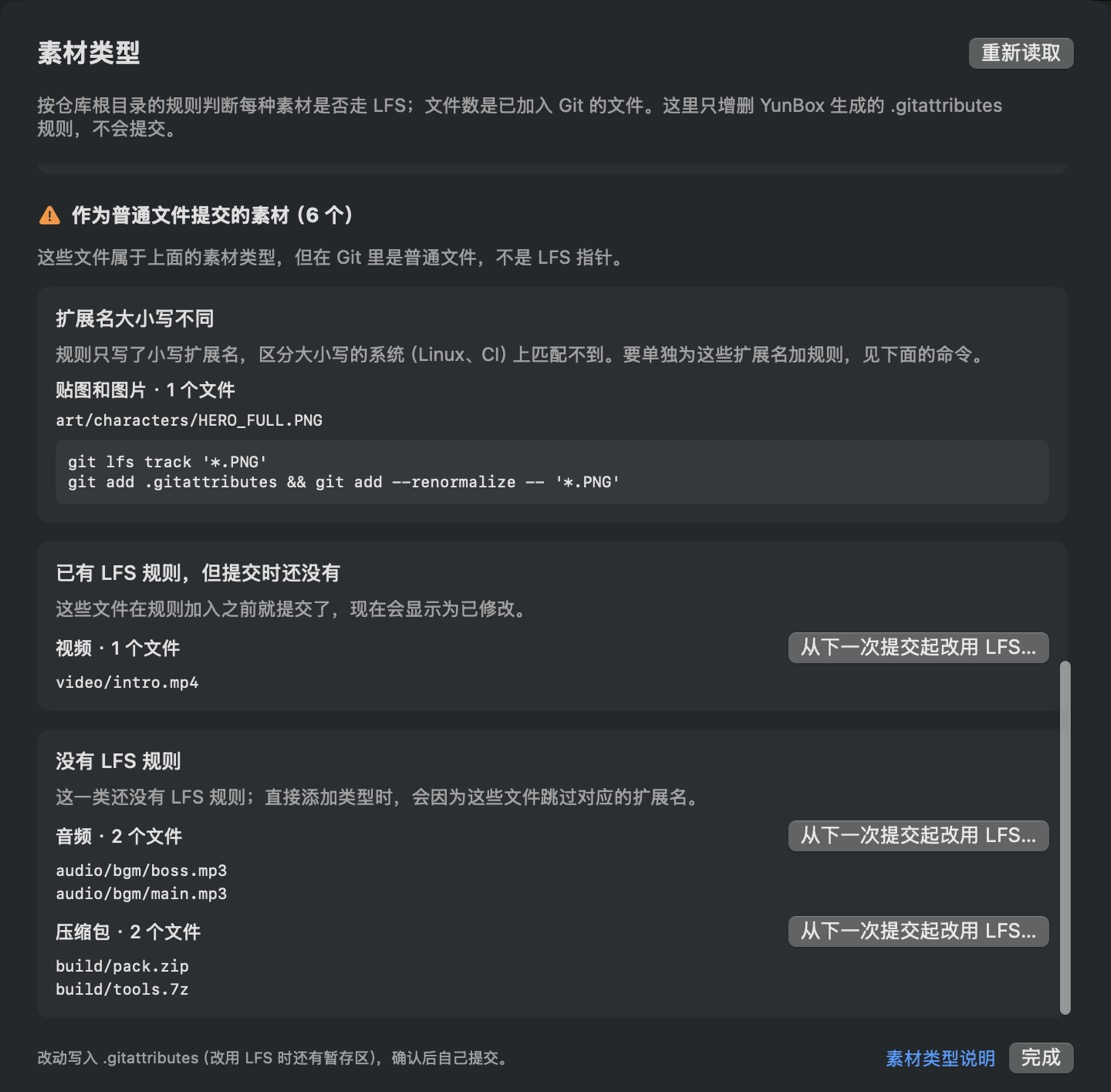
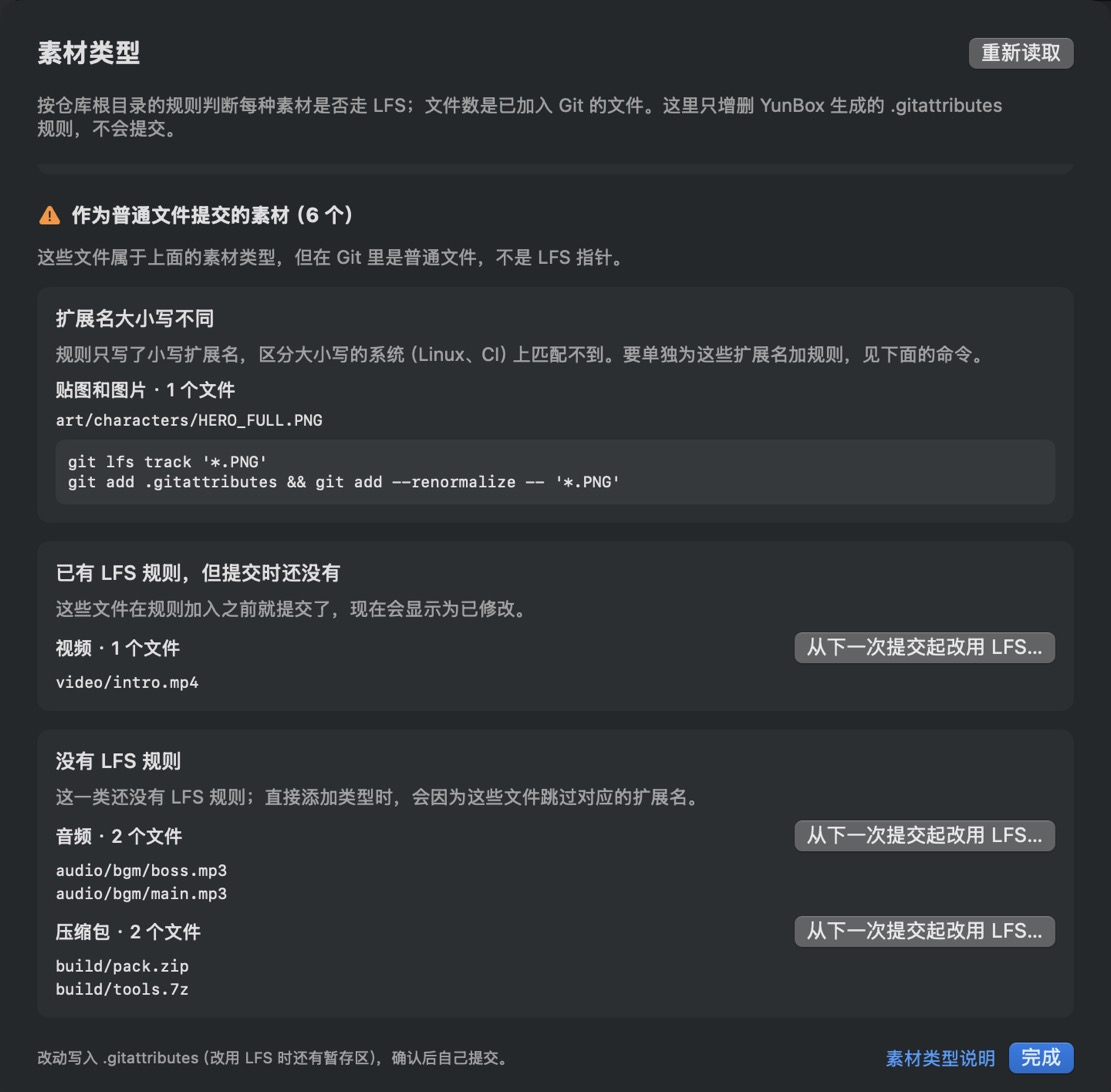
fix(macos): keep the sheets' scroll bar out of the content
The COS and asset types sheets' scroll views reach the sheet's edges and
inset their content instead, so the scroller sits in the margin rather
than over the cards and the command output. The dark screenshot in the
macOS guide is retaken.

Changed region(s): [[0.7039, 0.5604, 0.9793, 0.9963]]

diff --git a/apps/macos/Sources/YunBoxDesktop/Views/AssetTypesView.swift b/apps/macos/Sources/YunBoxDesktop/Views/AssetTypesView.swift
@@ -93,8 +93,8 @@ struct AssetTypesSheet: View {
                         }
                     }
                     .frame(maxWidth: .infinity, alignment: .leading)
-                    .padding(.trailing, 4)
                 }
+                .sheetScrollMargins()
                 // What the command printed sits below everything else: bring it into view, and again once the
                 // re-read report has changed the content above it.
                 .onChange(of: types.output?.text) { _, text in

diff --git a/apps/macos/Sources/YunBoxDesktop/Views/SheetScroll.swift b/apps/macos/Sources/YunBoxDesktop/Views/SheetScroll.swift
@@ -1,0 +1,10 @@
+import SwiftUI
+
+extension View {
+    /// For a `ScrollView` in a sheet padded by `inset`: reach out to the sheet's edges so the scroller sits in the
+    /// margin instead of over the content, and keep the content where the rest of the sheet lines up.
+    func sheetScrollMargins(_ inset: CGFloat = 24) -> some View {
+        contentMargins(.horizontal, inset, for: .scrollContent)
+            .padding(.horizontal, -inset)
+    }
+}

diff --git a/apps/macos/Sources/YunBoxDesktop/Views/CosView.swift b/apps/macos/Sources/YunBoxDesktop/Views/CosView.swift
@@ -93,6 +93,7 @@ struct CosSheet: View {
                     }
                 }.frame(maxWidth: .infinity, alignment: .leading)
             }
+            .sheetScrollMargins()
             HStack {
                 Text("密钥只保存在这台电脑上（钥匙串），仓库里只记录 bucket、地域和前缀。")
                     .font(.caption).foregroundStyle(.secondary)
